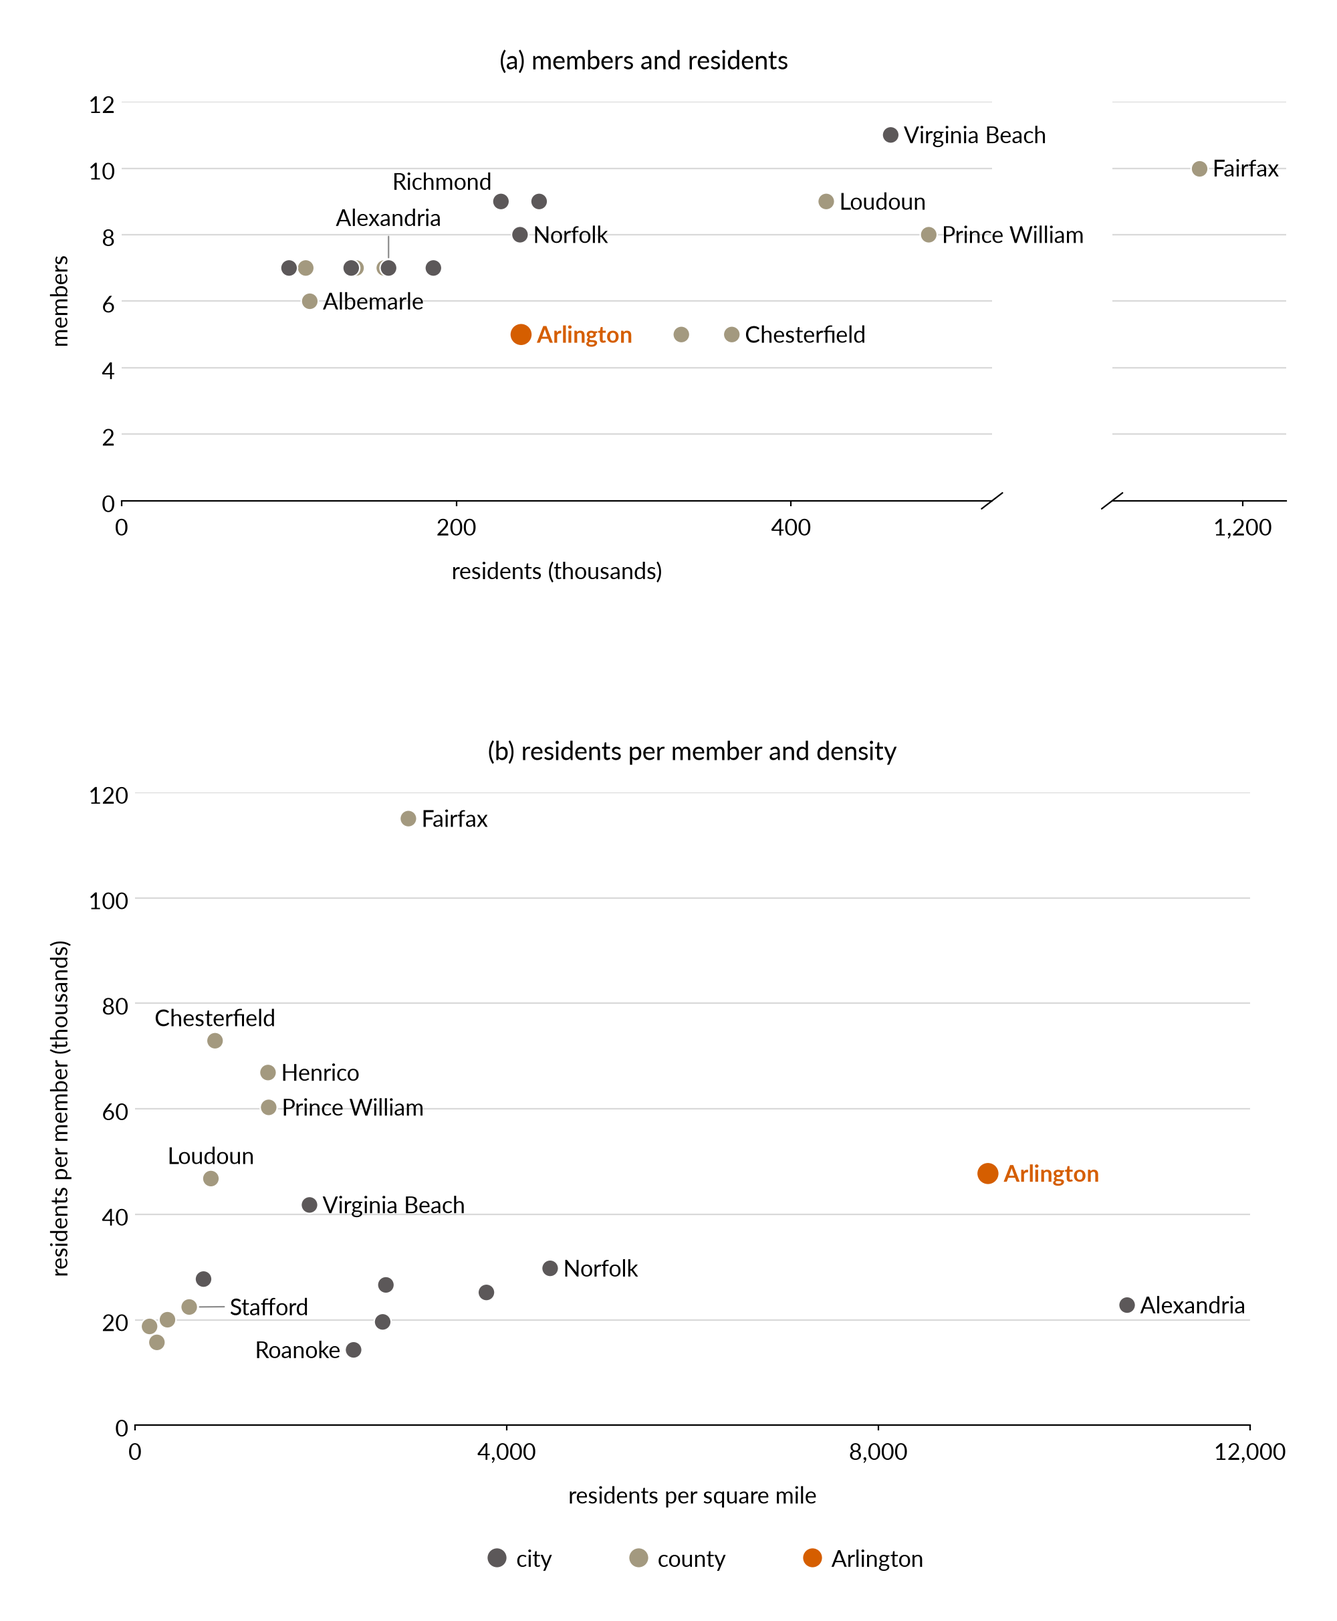
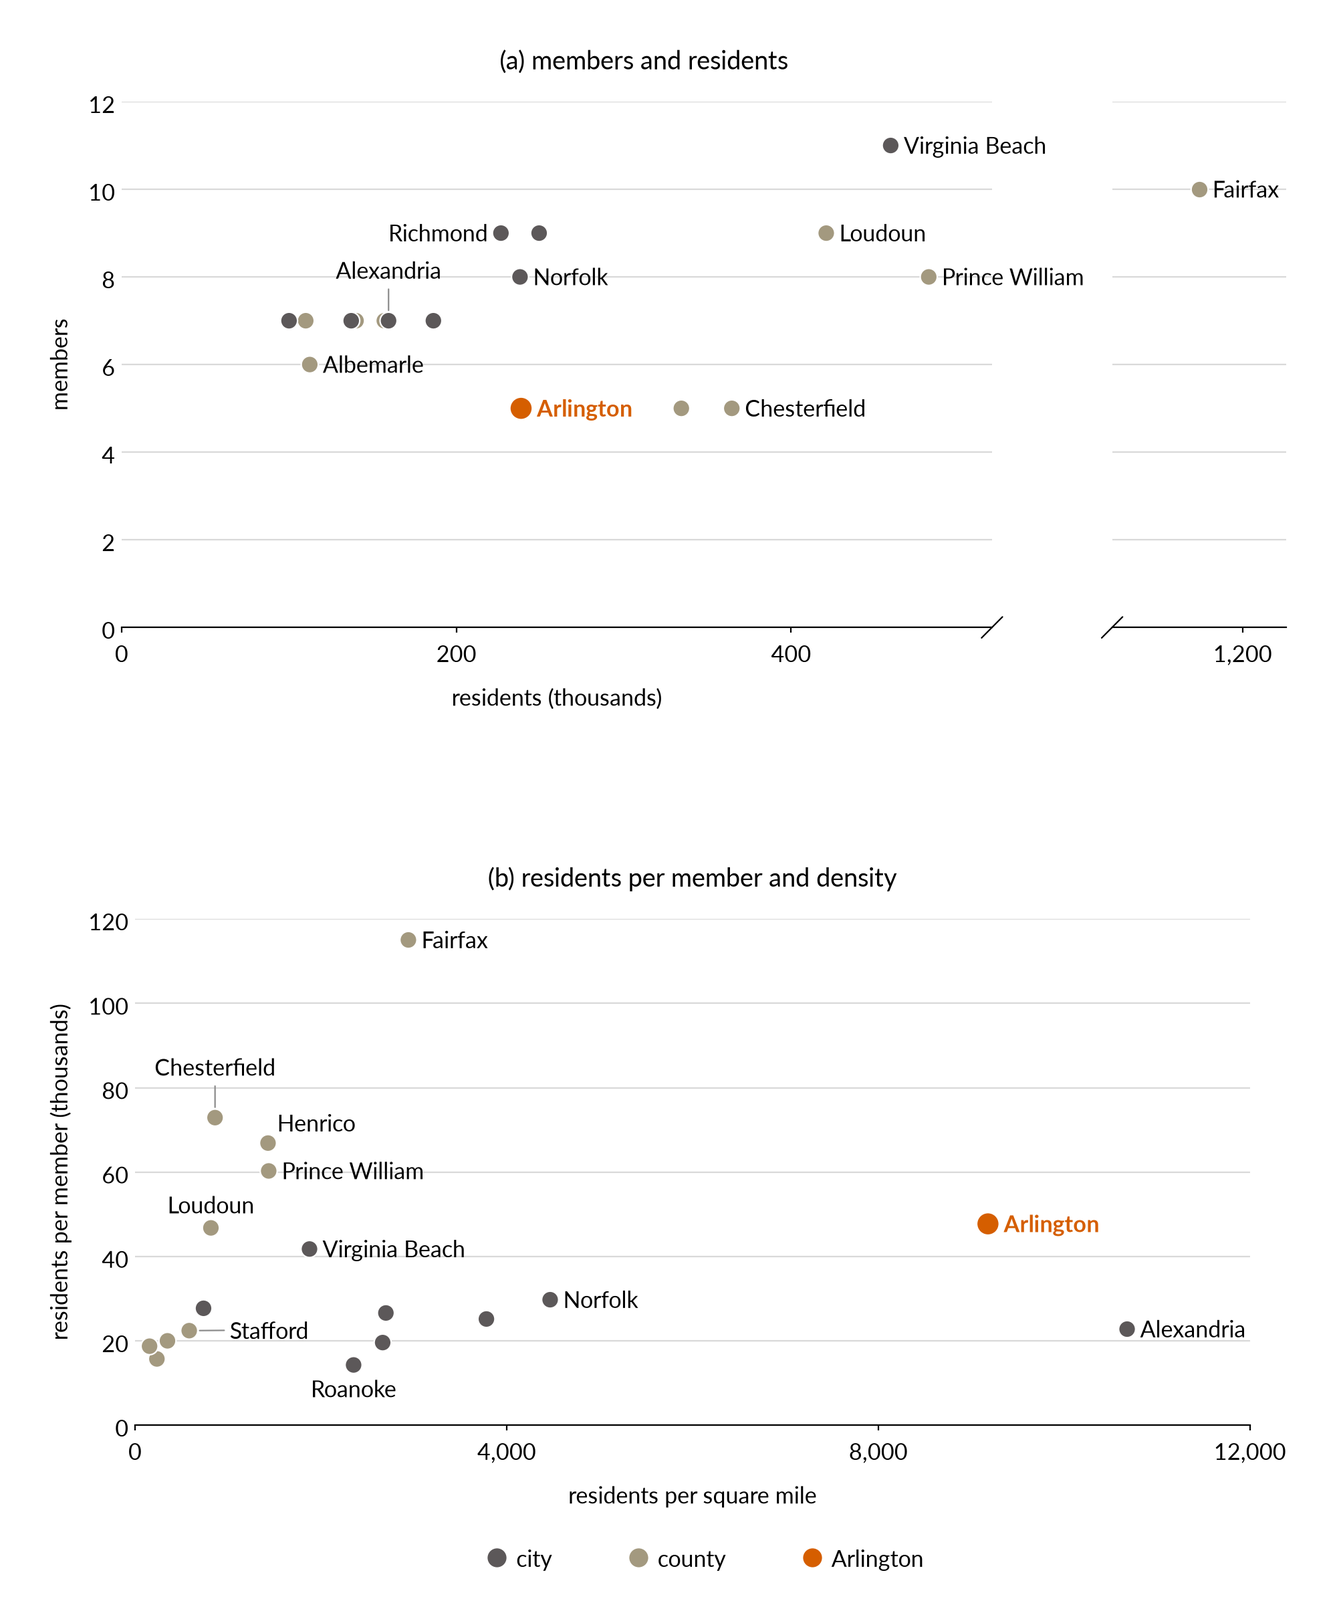
Punchlist: Figure 9 height, the southeastern figure back in C.1, the Residence placeholder, the roster's four eras, and a heading spacing scheme
Figure 9's panels are equalized with height_ratios=(1.5, 1) in
charts.scatter_pair; Chesterfield in panel (b) gets a leader line, since
the shrunk panel left no clear place beside its dot. localities_southeastern
goes back into C.1 Board Structure after Figure 9, cited from Appendix E,
each body's own page, the census and the Gazetteer. The Data Appendix's
Residence subsection is a one-line placeholder; the prose it held is
already carried in full in docs/members.md. Table 3's panels are four fixed
eras (1870-1899, 1900-1949, 1950-1999, 2000-present) instead of decades
packed to a page; the per-panel note is cut, and the Sources prose now
explains the superscript marks inline. A heading spacing scheme (section
12pt/6pt -> 22pt/10pt above/below, subsection 10pt/4pt -> 12pt/6pt, run-in
8pt/3pt -> 8pt/4pt) makes a section read as a bigger break than a subsection
where sections run on; rendered before/after pages are sent separately for
Sally's yes before the two punchlist spacing lines clear. Table 2's
rewrite and the Board Duties/Board Seats storytelling reworks are untouched.

diff --git a/paper/arlington-bsap.tex b/paper/arlington-bsap.tex
@@ -53,10 +53,7 @@
   \toprule \rosterhead \midrule \endfirsthead
   \toprule \rosterhead \midrule \endhead
   \bottomrule \endfoot}
-\newcommand{\rosterpanelend}{\end{longtable}\par\smallskip
-  \noindent\figurenotes{Notes: \rostermarks{} The source for each member's entry
-    is in the archive delivered to the County. Assumptions are described in
-    the text above.}{}\endgroup}
+\newcommand{\rosterpanelend}{\end{longtable}\par\smallskip\endgroup}
 % One row of the Sources table (Table~\ref{tab:sources}), written by
 % code/analysis/members_by_source.py: \sourcerow{O'Leary only}{29}
 \newcommand{\sourcerow}[2]{#1 & #2 \\}
@@ -94,12 +91,18 @@
 % Sections are numbered within their part: A.1, A.2, ..., C.1.
 \counterwithin*{section}{part}
 \renewcommand{\thesection}{\thepart.\arabic{section}}
-\titlespacing*{\section}{0pt}{12pt}{6pt}
-\titlespacing*{\subsection}{0pt}{10pt}{4pt}
+% One scheme, set once, for every level below a part (Sally, 5 October 2026):
+% each level's space above is roughly double the next one down, so where
+% sections run on with no page break between them (Parts B, C and D), a
+% section still reads as a bigger break than a subsection, and a subsection
+% bigger than a run-in head. Weight still marks the level, not size: a
+% section stays bold, a subsection and a run-in head stay italic.
+\titlespacing*{\section}{0pt}{22pt}{10pt}
+\titlespacing*{\subsection}{0pt}{12pt}{6pt}
 % Third level, used inside Demographic Representation: unnumbered, italic, run on the
 % way a subsection is, a little closer to its text.
 \titleformat{\subsubsection}{\normalfont\normalsize\itshape}{}{0em}{}
-\titlespacing*{\subsubsection}{0pt}{8pt}{3pt}
+\titlespacing*{\subsubsection}{0pt}{8pt}{4pt}
 
 \usepackage{fontspec}
 % All four faces are declared, because the report sets case names in italic
@@ -1072,6 +1075,24 @@ nothing for Arlington.
   Bureau Gazetteer, 2020.}
 \end{figure}
 
+\begin{figure}[p]
+  \centering
+  \refstepcounter{figure}\label{fig:localities-southeastern}
+  {\raggedright\MakeUppercase{Figure \thefigure}\par}
+  {\raggedright\bfseries Residents per Member, Arlington Among Cities and
+  Counties of Its Size in the Southeast\par}
+  \medskip
+  \includegraphics[width=\textwidth]{localities_southeastern.pdf}
+  \smallskip
+  \figurenotes{Notes: Every incorporated place and county of 150,000 to
+  300,000 residents in 2020 in Alabama, Arkansas, Georgia, Louisiana,
+  Maryland, Mississippi, North Carolina, South Carolina, Tennessee and
+  Virginia; Maryland has no incorporated place that size and enters by
+  county.}{Source: Richmond Charter Review Commission (2023), Appendix E;
+  each other body's own page, in \texttt{docs/localities.md}; US decennial
+  census, 2020; US Census Bureau Gazetteer, 2020.}
+\end{figure}
+
 \subsection{Board Seats}
 
 The number of seats, whether the chair is
@@ -1198,9 +1219,13 @@ disagreement and how it was settled.
 
 A member's traits come from three kinds of source: the US census, which
 describes members who served through the 1960s; the press, in news reports and
-obituaries; and published profiles. Table~\ref{tab:roster}'s note explains the
-superscript each value in the roster carries for its source. The census closes
-for 72 years, so the 1950 census is the last open.
+obituaries; and published profiles. A superscript on a value in Table~\ref{tab:roster}
+marks its source: the census (c), the press or a published profile (p), or an
+assumption (a) where no source says otherwise; two superscripts together mean
+two kinds of source agree, and a dash means no source gives the value. Census
+birth years are derived from the age recorded when the census was taken, so
+each is accurate only to within a year. The census closes for 72 years, so the
+1950 census is the last open.
 
 \subsection{Gender}
 Gender comes from two sources. Census sheets give it for members who served
@@ -1258,13 +1283,7 @@ census age bands.
 
 \subsection{Residence}
 % waits on: residence-county-records
-% Residence stays in the data appendix until better data arrive.
-Homes are easiest to find in the middle years. From 1932 to 1971, census sheets
-and newspaper reports place at least four of the five members at a street address
-or a street name. From 1972 through 1995, two or three members have no known home
-at all, and from 1998 none has a street address. No
-public source takes the closed census's place. Since 2013 the most precise location available for
-all five members is a neighborhood named in press coverage.
+\textit{[Where Board members have lived awaits the County's own records.]}
 
 \begin{figure}[p]
   \centering
@@ -1284,30 +1303,6 @@ all five members is a neighborhood named in press coverage.
   before 1932 the census names only a magisterial district, and since 2013 the
   press names only a neighborhood.}{}
 \end{figure}
-
-Before 1932 only the census places a member, and outside the towns its sheets
-name a magisterial district and leave the street column blank. Of the 41
-members seated from 1870 to 1911, 33 have a census record, and for nearly all of
-them the sheet gives a district and nothing finer; the county had only
-three.
-
-The district a man represented says nothing more about where he lived. Until 1903
-no law required a supervisor to live in it, so the Board's minute books, which name
-all three seats in every year from 1870, show who sat but not where he lived.
-
-The later gap runs from 1972 to 1995, when two or three of the five members have
-no known home, in years the modern County documented for itself and outside
-sources run out. Of the members with an address, about a third have one dated to
-their service. The rest have one dated before or after it, and an obituary address is where someone died, not where they lived when
-elected.
-
-Figure~\ref{fig:board-residence} counts any dated address, so a member whose only
-address comes from after their service still appears at that level of detail.
-
-County records may identify where Board members lived: payroll and personnel
-records, candidate filings and oaths of office, and voter registration records.
-Even an aggregate unit, such as the side of the County, the civic association,
-zip code or precinct, would place members the census and the press cannot.
 
 \subsection{Seat-Years}
 A member who sat part of a year counts as a fraction of a seat: four months is a

diff --git a/paper/members_roster.tex b/paper/members_roster.tex
@@ -1,6 +1,6 @@
 % Generated by code/analysis/members_roster.py from data/clean/members.csv.
 % Never edit by hand: bash run.sh rewrites it.
-\rosterpanel{A}{1870--1909}
+\rosterpanel{A}{1870--1899}
 \rosterheading{1870s}
 \rosterk{H. Dwight Smith}{1870--1873}{election}{---}{man\textsuperscript{p}}{White\textsuperscript{a}}
 \roster{Charles W. Payne}{1870--1879}{election}{1822\textsuperscript{c}}{man\textsuperscript{c}}{White\textsuperscript{c}}
@@ -40,15 +40,15 @@
 \roster{A. D. Torreyson}{1897}{election}{1866\textsuperscript{c}}{man\textsuperscript{c}}{White\textsuperscript{c}}
 \rosterk{George N. Saegmuller}{1897--1901}{election}{1847\textsuperscript{c}}{man\textsuperscript{c}}{White\textsuperscript{c}}
 \roster{D. N. Rust}{1899--1908}{election}{1850\textsuperscript{c}}{man\textsuperscript{c}}{White\textsuperscript{c}}
-\rosterdecade{1900s}
+\rosterpanelend
+\rosterpanel{B}{1900--1949}
+\rosterheading{1900s}
 \rosterk{Rezin W. Darbey}{1901--1904}{election}{1850\textsuperscript{c}}{man\textsuperscript{c}}{White\textsuperscript{c}}
 \roster{Christopher J. Costello}{1901--1904}{election}{1865\textsuperscript{c}}{man\textsuperscript{c}}{White\textsuperscript{c}}
 \roster{W.W. Douglas}{1904--1908}{election}{1861\textsuperscript{c}}{man\textsuperscript{c}}{White\textsuperscript{c}}
 \rosterk{W. N. Febrey}{1904--1912}{election}{1851\textsuperscript{c}}{man\textsuperscript{c}}{White\textsuperscript{c}}
 \roster{Edward Duncan}{1908--1932}{election}{1867\textsuperscript{p}}{man\textsuperscript{c}}{White\textsuperscript{c}}
-\rosterpanelend
-\rosterpanel{B}{1910--1949}
-\rosterheading{1910s}
+\rosterdecade{1910s}
 \rosterk{W. C. Wibirt}{1912--1919}{---}{1855\textsuperscript{c}}{man\textsuperscript{c}}{White\textsuperscript{c}}
 \rosterk{Robert L. Walker}{1912--1919}{---}{1876\textsuperscript{c}}{man\textsuperscript{c}}{White\textsuperscript{c}}
 \roster{Clarence R. Ahalt}{1919}{appointment}{1889\textsuperscript{c}}{man\textsuperscript{c,\,p}}{White\textsuperscript{c}}
@@ -80,7 +80,7 @@
 \rosterk{Alfred E. Frisbie}{1947--1952}{appointment}{1912\textsuperscript{c}}{man\textsuperscript{c}}{White\textsuperscript{c}}
 \roster{Florence Cannon}{1948--1951}{election}{1889\textsuperscript{c}}{woman\textsuperscript{c,\,p}}{White\textsuperscript{c}}
 \rosterpanelend
-\rosterpanel{C}{1950--1989}
+\rosterpanel{C}{1950--1999}
 \rosterheading{1950s}
 \rosterk{Robert W. Cox}{1950--1952}{election}{1917\textsuperscript{c}}{man\textsuperscript{c}}{White\textsuperscript{c}}
 \roster{Alan L. Dean}{1952}{election}{1919\textsuperscript{c}}{man\textsuperscript{c}}{White\textsuperscript{c}}
@@ -122,9 +122,7 @@
 \roster{Albert C. Eisenberg}{1984--1999}{election}{1946\textsuperscript{p}}{man\textsuperscript{p}}{White\textsuperscript{a}}
 \rosterk{Michael E. Brunner}{1984--1987}{election}{1943\textsuperscript{p}}{man\textsuperscript{p}}{White\textsuperscript{a}}
 \roster{William T. Newman, Jr.}{1988--1993}{election}{1950\textsuperscript{p}}{man\textsuperscript{p}}{Black\textsuperscript{p}}
-\rosterpanelend
-\rosterpanel{D}{1990--2026}
-\rosterheading{1990s}
+\rosterdecade{1990s}
 \rosterk{James B. Hunter III}{1990--1997}{special election}{1940\textsuperscript{p}}{man\textsuperscript{p}}{White\textsuperscript{a}}
 \roster{Benjamin H. Winslow, Jr.}{1993--1995}{special election}{1932\textsuperscript{p}}{man\textsuperscript{p}}{White\textsuperscript{a}}
 \roster{Christopher E. Zimmerman}{1996--2014}{special election}{1959\textsuperscript{p}}{man\textsuperscript{p}}{White\textsuperscript{a}}
@@ -132,7 +130,9 @@
 \roster{Barbara A. Favola}{1997--2011}{special election}{1955\textsuperscript{p}}{woman\textsuperscript{p}}{White\textsuperscript{a}}
 \rosterk{G.N. “Jay” Fisette, Jr.}{1998--2017}{election}{1956\textsuperscript{p}}{man\textsuperscript{p}}{White\textsuperscript{a}}
 \roster{Michael D. Lane}{1999}{special election}{1952\textsuperscript{p}}{man\textsuperscript{p}}{White\textsuperscript{a}}
-\rosterdecade{2000s}
+\rosterpanelend
+\rosterpanel{D}{2000--2026}
+\rosterheading{2000s}
 \rosterk{Charles P. Monroe}{2000--2003}{election}{1957\textsuperscript{p}}{man\textsuperscript{p}}{Black\textsuperscript{p}}
 \rosterk{J. Walter Tejada}{2003--2015}{special election}{1958\textsuperscript{p}}{man\textsuperscript{p}}{Hispanic\textsuperscript{p}}
 \roster{Mary H. Hynes}{2008--2015}{election}{1956\textsuperscript{p}}{woman\textsuperscript{p}}{White\textsuperscript{a}}

diff --git a/code/analysis/members_roster.py b/code/analysis/members_roster.py
@@ -19,13 +19,14 @@ in groups by the decade of first seating, each under a bold heading;
 \rosterk is a row the page may not break after, used so that no group leaves a
 single row alone at the foot or head of a page.
 
-The roster is printed as panels, one page each, 2A, 2B and 2C in the paper:
-\rosterpanel{A}{1870--1919} opens one and \rosterpanelend closes it, and a panel
-breaks only between decades, so a page is filled with whole decades until the
-next would not fit (PANEL_LINES). The subsets are the women and the members of
-color, in the same rows and columns under a bold heading each, and the paper
-\input{}s them into one table. The roster and the evidence behind each cell are
-data/clean/members.csv.
+The roster is printed as four panels, one era each, 3A through 3D in the
+paper: \rosterpanel{A}{1870--1899} opens one and \rosterpanelend closes it.
+The eras are fixed (1870-1899, 1900-1949, 1950-1999, 2000-present), each a
+whole run of decades; a panel breaks only between decades, and longtable
+carries it across as many pages as it needs. The subsets are the women and
+the members of color, in the same rows and columns under a bold heading
+each, and the paper \input{}s them into one table. The roster and the
+evidence behind each cell are data/clean/members.csv.
 """
 from typing import NamedTuple
 
@@ -100,25 +101,21 @@ def rows(members: pd.DataFrame) -> list:
     return out
 
 
-# A page holds this many lines of a panel: a row is one, a decade's heading
-# and the gap above it 1.4, with the panel's title and notes already taken out.
-PANEL_LINES = 49
-HEADING_LINES = 1.4
+# The four fixed eras a panel covers, in place of pagination by line count;
+# the last is open-ended, to the most recent year the seat table covers.
+ERAS = [(1870, 1899), (1900, 1949), (1950, 1999), (2000, None)]
 
 
 def panels(table: list) -> list:
-    """The decades, each a list of rows, packed in order into pages: a decade
-    joins the page it follows unless that would pass PANEL_LINES, and then it
-    opens the next. A panel never breaks inside a decade."""
-    out, used = [], 0.0
-    for d in sorted({r.decade for r in table}):
-        group = [r for r in table if r.decade == d]
-        size = len(group) + HEADING_LINES
-        if not out or used + size > PANEL_LINES:
-            out.append([])
-            used = 0.0
-        out[-1].append((d, group))
-        used += size
+    """The decades, each a list of rows, grouped into the four fixed eras.
+    An era with no decade in it is skipped. A panel never breaks inside a
+    decade; longtable carries a panel across as many pages as it needs."""
+    out = []
+    decades = sorted({r.decade for r in table})
+    for start, end in ERAS:
+        group = [d for d in decades if d >= start and (end is None or d <= end)]
+        if group:
+            out.append((start, end, [(d, [r for r in table if r.decade == d]) for d in group]))
     return out
 
 
@@ -144,10 +141,10 @@ def tex(table: list, present: int) -> str:
     \rosterk (no page break after) goes on a group's first row and on the row
     before its last, so a break never strands one row."""
     out = [COMMENT]
-    for k, panel in enumerate(panels(table)):
-        first, last = panel[0][0], panel[-1][0] + 9
-        out.append("\\rosterpanel{%s}{%d--%d}\n" % (chr(ord("A") + k), first, min(last, present)))
-        for j, (d, group) in enumerate(panel):
+    for k, (start, end, decade_groups) in enumerate(panels(table)):
+        last = present if end is None else end
+        out.append("\\rosterpanel{%s}{%d--%d}\n" % (chr(ord("A") + k), start, min(last, present)))
+        for j, (d, group) in enumerate(decade_groups):
             out.append(("\\rosterheading{%ds}" if j == 0 else "\\rosterdecade{%ds}") % d + "\n")
             for i, r in enumerate(group):
                 out.append(line(r, len(group) > 1 and i in (0, len(group) - 2)) + "\n")

diff --git a/style/charts.py b/style/charts.py
@@ -473,7 +473,7 @@ def scatter_pair(profile=style.DEFAULT_PROFILE):
     # first draw collapses constrained layout and fit() warns before it recovers.
     width = style.figsize(profile)[0]
     fig = plt.figure(figsize=(width, width * 1.25))
-    outer = fig.add_gridspec(2, 1, hspace=0.25)
+    outer = fig.add_gridspec(2, 1, hspace=0.25, height_ratios=(1.5, 1))
     inner = outer[0].subgridspec(1, 2, width_ratios=style.BROKEN, wspace=0.0)
     near = fig.add_subplot(inner[0])
     far = fig.add_subplot(inner[1], sharey=near)

diff --git a/code/analysis/localities_peers.py b/code/analysis/localities_peers.py
@@ -24,7 +24,7 @@ NAMED_B = {"Arlington", "Alexandria", "Fairfax", "Chesterfield", "Henrico", "Pri
            "Roanoke"}
 # Named with a short line to the dot: too close to its neighbours to name beside it.
 LEADERS_A = {"Alexandria"}
-LEADERS_B = {"Stafford"}
+LEADERS_B = {"Stafford", "Chesterfield"}  # too close to Henrico once panel (b) shrank for the 5 October height fix
 
 for profile in style.PROFILES:
     style.apply(profile)

diff --git a/paper/punchlist.md b/paper/punchlist.md
@@ -11,13 +11,9 @@ the paper, commits, and deletes the lines it cleared. What it cannot settle
 stays, with a one-line reason under it.
 
 ## Open
-- Figure 9 (Arlington among Virginia's larger cities and counties): the top panel is squished, about 60 percent of the bottom panel's height. The fix measured on 5 October: `height_ratios=(1.5, 1)` on the outer gridspec in `charts.scatter_pair` makes the two panels equal; apply it through the style layer and check both panels print the same height. (Sally, 5 Oct)
-- The southeastern-peers figure (`localities_southeastern`, built, not in the paper since the two Virginia scatters became one stacked figure on 4 October) goes back into C.1 Board Structure after Figure 9, with a caption in the same form. (Sally, 5 Oct)
 - The Data Appendix shows that white space is not separating sections: a section head gets 12pt above, the same as a subsection, so the levels run together where sections run on. Set a scheme once for the whole report (part, section, subsection, run-in) and show before and after; this is the same job as the headings-and-spacing line under Could not settle, so do both at once. (Sally, 5 Oct)
+  A scheme is applied (section 12pt/6pt -> 22pt/10pt above/below; subsection 10pt/4pt -> 12pt/6pt; run-in 8pt/3pt -> 8pt/4pt) and rendered before and after, sent for Sally to judge; this line and the headings-and-spacing line under Could not settle both wait on her yes before they clear. (Fable, 5 Oct)
 - Table 2 (Which Source Backs Each Stretch of Terms) is inside baseball. Rewrite the Data Appendix's Board Members, Sources, and the table, for a researcher replicating the roster for the first time: their roadmap, in plain words, which document to open for which years and what to do where two disagree. Stretch labels like "list only" and "Novack and County" mean nothing to that reader. (Sally, 5 Oct)
-- Data Appendix, Residence: replace the subsection with a placeholder, one bracketed italic sentence, until the County's records settle the addresses; the prose it holds now moves to the archive, not the paper. (Sally, 5 Oct)
-- Table 3 (the roster): break the panels into four eras, 1870-1899, 1900-1949, 1950-1999 and 2000-present, in place of the decades. Cut the note under each panel (the superscript key, the dashes, the census-age caveat); the source key lives in the appendix's Sources text. (Sally, 5 Oct)
-- Paired figure pages still need formatting work (two figures, notes and source on one page); fold into the spacing scheme above. (Sally, 5 Oct)
 - Board Duties (A.1) and Board Seats (A.1) each get a storytelling rework, not line edits; the point of each is recorded for the next pass: Board Duties answers what the Board is, what a Manager is, who does what, and how that changed; Board Seats says the county has grown a lot and why, and the Board has grown once, and therefore. A reader who finishes should be able to tell that story back. (Sally, 5 Oct)
 
 ## Could not settle
@@ -34,4 +30,4 @@ stays, with a one-line reason under it.
 - Figure 3 (county by race) legend: consider alphabetical order (Asian & Pacific Islander first), since nothing says why Black comes first. The figures skill says a legend follows stacking order, and docs/figures.md sets the stack with the largest group on top; if the legend goes alphabetical, decide whether the stack does too, and apply the same rule to Figure 4 and the gender figure.
   A decision on stacking order, for Sally.
 - Headings and spacing are not yet nailed for skimmability (Sally, 4 October 2026, looking at the data appendix): the part, section, subsection and run-in levels need a deliberate scheme of weight, style and white space above and below so the eye finds the structure at a glance; a typographic pass over the whole document, one scheme applied everywhere, shown before and after.
-  Sets a scheme for the whole document; wants a Fable session.
+  Same scheme as the Open line above, applied and rendered before/after; waits on Sally's yes. (Fable, 5 Oct)
